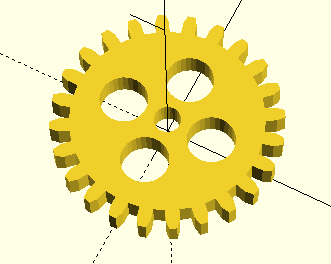
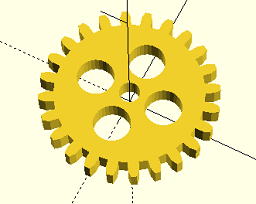
resized images

diff --git a/README.md b/README.md
@@ -17,6 +17,8 @@ The script has several options including:
 
 Example gears:
 
+24 tooth gear with 24 diametral pitch, holes enabled
 ![alt text](https://github.com/mseminatore/mdsSpurGear/blob/master/Examples/Gear24.png "24 tooth gear")
 
+48 tooth gear with 24 diametral pitch, holes enabled
 ![alt text](https://github.com/mseminatore/mdsSpurGear/blob/master/Examples/Gear48.png "48 tooth gear")
